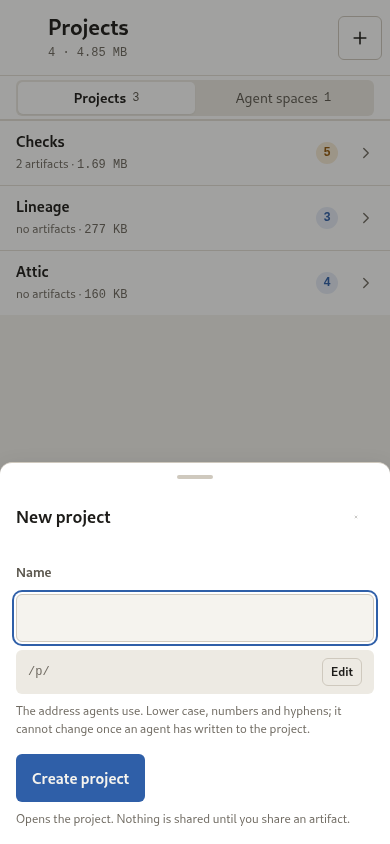
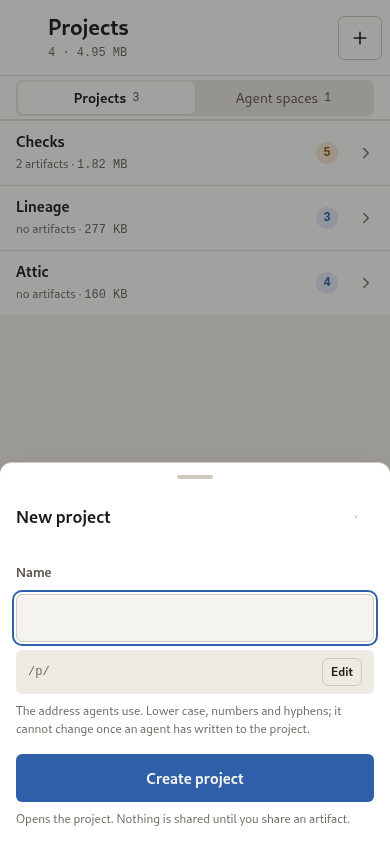
fix(web): let a phone dialog's actions take the sheet's width
A button is as wide as its label, and that rule was written to stop a verb
stretching beside a field. On a phone the same rule leaves the opposite defect:
a sheet's one decision is drawn at 129px beside a 358px sheet, and a dialog's
pair sits at 69 and 115px with the rest of the row empty. The strongest object
in the sheet is the smallest thing in it.

Under a coarse pointer a dialog's or a form's action row takes the sheet's width
between its actions instead. A row divides between them and a column stretches
to its own width, so one action takes the column and two take a half each. The
primary keeps its emphasis by its fill rather than its width, which is the
distinction the contract already draws between a commit and a safe action. The
delete dialog's footer has always shipped this way, so the rule removes an
inconsistency rather than adding a third pattern. On a fine pointer nothing
moves: the row is right-aligned at label width, and a stretched verb beside a
field is still the defect.

The phone's add-agent form is a column whose fields and one submit sit
together, so its action is the submit and the row is the form. The session
detail's footer is full-bleed on both widths, so its action takes the pane.

Measured at 390 wide under a coarse pointer:

| Surface            | Actions                | before                | after                    |
|--------------------|------------------------|-----------------------|--------------------------|
[…]

diff --git a/web/app.css b/web/app.css
@@ -268,6 +268,23 @@ button:not([disabled]):active, .chip:active { transform: translateY(1px); }
 @media (pointer: coarse) {
   button, .button { min-height: var(--tap); }
 }
+/* Under a coarse pointer a dialog's or a form's action row takes the sheet's
+   width between its actions, so no verb is left at its label's width beside an
+   empty sheet. A row divides between them and a column stretches to its own
+   width: one action takes the column, two take a half each. The primary keeps
+   its emphasis by its fill rather than by its width, which is the distinction
+   the contract already draws between a commit and a safe action. The delete
+   dialog's footer has shipped this way; this holds every action row to it. */
+@media (pointer: coarse) {
+  .dialog-actions > :is(button, .button),
+  .pset-actions > :is(button, .button),
+  .agent-create-actions > :is(button, .button),
+  .wiki-editor-actions > :is(button, .button) { flex: 1 1 0; min-width: 0; }
+  .project-create-actions > :is(button, .button),
+  .access-add-fields > :is(button, .button),
+  .session-actions-footer > :is(button, .button),
+  .hub-share-actions > :is(button, .button) { align-self: stretch; }
+}
 /* The hit area. Wherever a coarse pointer is present, a control drawn under
    the target keeps its drawn box and answers to a --tap box around its
    centre, in both axes. It asks `any-pointer` rather than `pointer`, so a
@@ -3447,7 +3464,8 @@ button.inbox-quiet.shell-trailing-btn[disabled] {
 }
 /* End session is not prune: it stops something live, so it keeps the action
    tone in an outline, not the danger tone. A button is as wide as its label,
-   so the footer's control is the verb and not the pane. */
+   so the footer's control is the verb and not the pane, and the one action
+   here takes the footer's width on a coarse pointer. */
 /* End session is a form action, so it is --ctl-form on a fine pointer and
    --tap on a coarse one, with the label style that control size carries, and it
    no longer stands at 48px and 17px beside a 36px Reassign. */
@@ -6330,7 +6348,8 @@ a.session-back {
   display: flex;
   flex-direction: column;
   gap: var(--s-2);
-  /* A button is as wide as its label, so the sheet's actions are the verbs. */
+  /* The sheet's one action takes the column on a coarse pointer; the base rule
+     keeps it at its label's width beside the pane's edge. */
   align-items: flex-start;
 }
 .project-create-submit {

diff --git a/DESIGN.md b/DESIGN.md
@@ -266,6 +266,16 @@ A button is as wide as its label. A control that is itself a row, a menu item,
 or a tab of a strip is as wide as the box that holds it, and a control that
 draws only a glyph is held to `--tap` rather than to a label.
 
+Under a coarse pointer a dialog's or a form's action row takes the sheet's width
+between its actions instead, so no verb is left at its label's width beside an
+empty sheet. A row divides between them and a column stretches to its own width,
+so one action takes the column and two take a half each. The primary keeps its
+emphasis by its fill rather than by its width: the commit is filled and the safe
+action is not, which is the distinction the contract already draws. The delete
+dialog's footer has always shipped this way; the rule holds every action row to
+it. On a fine pointer the row is right-aligned at label width, and a stretched
+verb beside a field remains the defect the label rule came from.
+
 ### The phone
 
 - One header and one tools row, sized as above. The tab bar is five labelled
@@ -666,8 +676,11 @@ named checks from the current handoff.
     declarations taken away, so a percentage `min-width` is caught. The
     allow-list names the controls that are as wide as their box: a row that is
     itself a control, a menu item, a delete action's 90px floor and a tab of a
-    strip. The artifact viewer's document is a separate page in a sandboxed
-    frame, so this gate does not walk into it.
+    strip. Under a coarse pointer the same check allows an action row's
+    controls, which the third check holds instead: the row's shares and gaps
+    account for the row's own width, and no action is narrower than the share
+    the row gives it. The artifact viewer's document is a separate page in a
+    sandboxed frame, so this gate does not walk into it.
 
 `make web/styles`, `make web/units` and the browser gates enforce what they can;
 a UI change is not done until someone has looked at it at both widths and said

diff --git a/docs/design/human-interface.md b/docs/design/human-interface.md
@@ -119,6 +119,14 @@ a settings row is 56, because a 44px control in 12px of padding is 56. A row
 whose label carries a second line of copy grows to hold that line, and never
 because of its control.
 
+Under a coarse pointer a dialog's or a form's action row is the one place the
+label width does not hold: the row takes the sheet's width between its actions,
+so one action takes the column and two take a half each, and a phone sheet's
+verb no longer sits beside half a sheet of empty space. The action that records
+the decision is filled and the one that does not is not, so the emphasis is
+carried by the fill and not by the width. On a fine pointer the row is
+right-aligned at label width, as everywhere else.
+
 The design contract the interface is being brought to, including the one
 shell the sections converge on, lives in `DESIGN.md` at the repository root.
 This page records what ships; that file records what is designed.

diff --git a/docs/log.md b/docs/log.md
@@ -6,6 +6,20 @@ software release notes and the repository changelog.
 
 ## 2026-10-10
 
+### A phone dialog's actions take the sheet's width
+
+* **Update**: [Human interface](design/human-interface.md) states that under a
+  coarse pointer a dialog's or a form's action row takes the sheet's width
+  between its actions, so one action takes the column and two take a half each.
+  It used to show every action at its label's width, which left a phone sheet's
+  verb beside half a sheet of empty space. On a fine pointer the row is
+  unchanged: right-aligned at label width.
+* **Add**: captures for the phone surfaces this changes: the new project sheet,
+  the end session dialog, project settings, the wiki editor and the session
+  detail footer.
+
+## 2026-10-10
+
 ### The dialogs and the wiki's other three surfaces are photographed
 
 * **Update**: [Human interface](design/human-interface.md) states that New page
